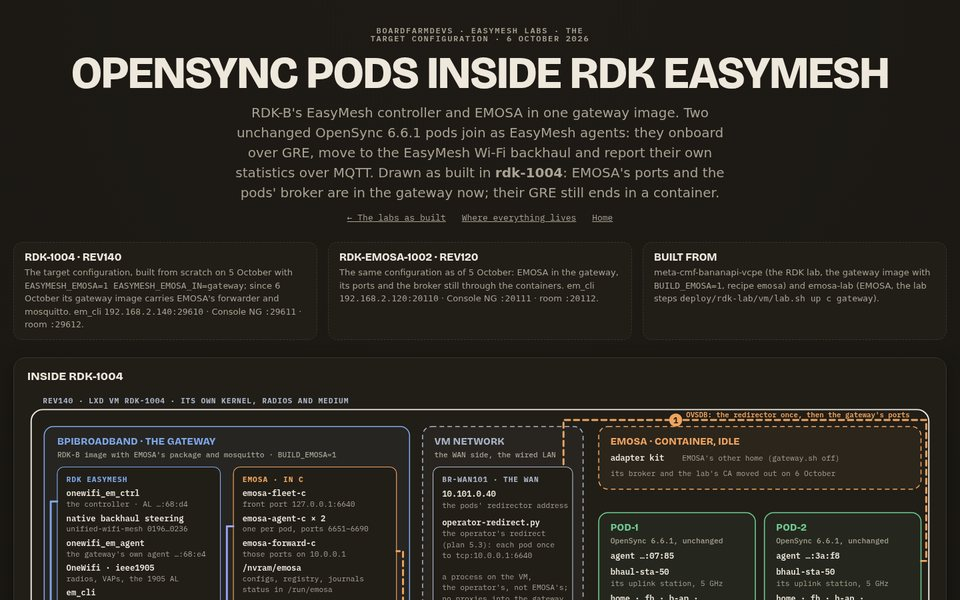
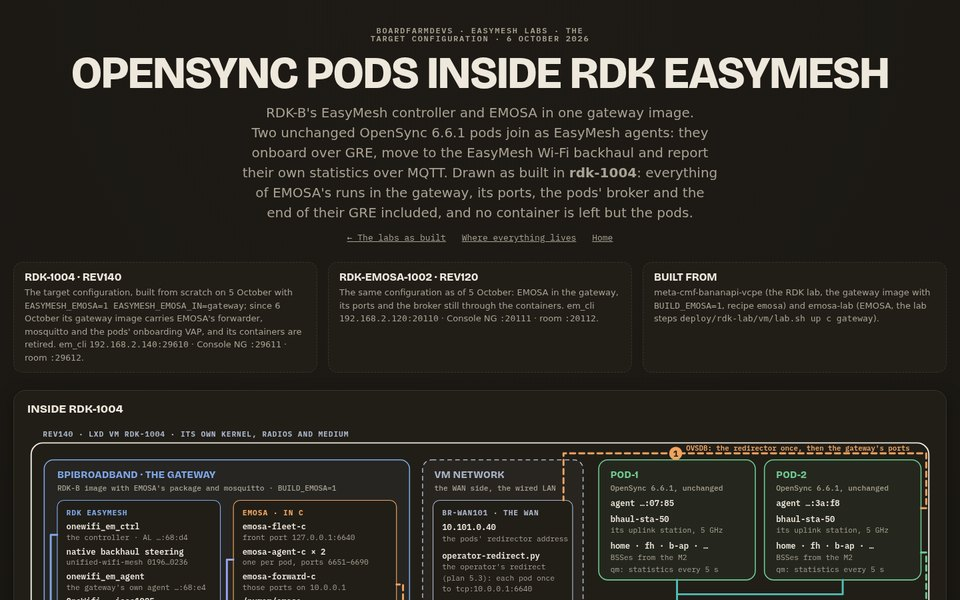
Poster rdk-emosa: no container but the pods, the pods' GRE ends in the gateway (6 October), 62 of 62 rooms; emosa-lab and meta-cmf pinned, rdk-1004's gateway image recorded
The gateway holds the pods' GTP: their onboarding SSID a VAP of its own
(wifi1.4, kept out of EasyMesh), emosa-gtp on its bridge, the tunnels in
brlan0; emosa and em-gtp retired. The footprint measured again through a room
catalog with everything in the gateway; em_ctrl's journal volume corrected.
manifest: emosa-lab 04189dc, meta-cmf 75462bb, rdk-1004's gateway image
X86EMLTRBPIBB_rdk-next_20261006083201 (meta-cmf c5abb1d).

Changed region(s): [[0.0312, 0.66, 0.9688, 1.0], [0.25, 0.18, 0.9688, 0.54], [0.0, 0.42, 0.3125, 0.63]]

diff --git a/site/posters/rdk-emosa.html b/site/posters/rdk-emosa.html
@@ -7,7 +7,7 @@
 <link rel="icon" href="../favicon.ico" sizes="48x48">
 <link rel="icon" href="../favicon.svg" type="image/svg+xml">
 <link rel="apple-touch-icon" href="../apple-touch-icon.png">
-<meta name="description" content="The target configuration as of 6 October 2026: RDK-B's EasyMesh controller and EMOSA in one gateway image, with EMOSA's ports and the pods' broker in the gateway; two unchanged OpenSync pods as EasyMesh agents, drawn whole with every path they use.">
+<meta name="description" content="The target configuration as of 6 October 2026: RDK-B's EasyMesh controller and EMOSA in one gateway image, with EMOSA's ports, the pods' broker and their GRE termination point in the gateway and no container but the pods; two unchanged OpenSync pods as EasyMesh agents, drawn whole with every path they use.">
 <link rel="preconnect" href="https://fonts.googleapis.com">
 <link rel="stylesheet" href="https://fonts.googleapis.com/css2?family=Bricolage+Grotesque:opsz,wght@12..96,600;12..96,800&family=IBM+Plex+Mono:wght@400;500;600;700&display=swap">
 <link rel="stylesheet" href="posters.css">
@@ -19,15 +19,17 @@
     <h1>OpenSync pods inside RDK EasyMesh</h1>
     <p>RDK-B's EasyMesh controller and EMOSA in one gateway image. Two unchanged OpenSync 6.6.1
     pods join as EasyMesh agents: they onboard over GRE, move to the EasyMesh Wi-Fi backhaul and
-    report their own statistics over MQTT. Drawn as built in <b>rdk-1004</b>: EMOSA's ports and
-    the pods' broker are in the gateway now; their GRE still ends in a container.</p>
+    report their own statistics over MQTT. Drawn as built in <b>rdk-1004</b>: everything of
+    EMOSA's runs in the gateway, its ports, the pods' broker and the end of their GRE included,
+    and no container is left but the pods.</p>
     <nav><a href="labs.html">← The labs as built</a> <a href="map.html">Where everything lives</a> <a href="../index.html">Home</a></nav>
   </header>
 
   <section class="stage-hosts" aria-label="Where it runs">
     <div class="host"><h3>rdk-1004 · rev140</h3><p>The target configuration, built from scratch on 5 October with
     <code>EASYMESH_EMOSA=1 EASYMESH_EMOSA_IN=gateway</code>; since 6 October its gateway image carries
-    EMOSA's forwarder and mosquitto. em_cli <code>192.168.2.140:29610</code> · Console NG
+    EMOSA's forwarder, mosquitto and the pods' onboarding VAP, and its containers are retired.
+    em_cli <code>192.168.2.140:29610</code> · Console NG
     <code>:29611</code> · room <code>:29612</code>.</p></div>
     <div class="host"><h3>rdk-emosa-1002 · rev120</h3><p>The same configuration as of 5 October:
     EMOSA in the gateway, its ports and the broker still through the containers. em_cli
@@ -41,8 +43,8 @@
     <h3>Inside rdk-1004</h3>
     <div class="diagram-scroll">
     <svg viewBox="0 0 1400 1048" role="img" aria-labelledby="dia-title dia-desc">
-      <title id="dia-title">rdk-1004 inside: the gateway with RDK EasyMesh, EMOSA and the pods' broker, the VM's WAN and wired LAN, the idle emosa container, two pods, em-gtp, the medium, extenders and the room service</title>
-      <desc id="dia-desc">Four numbered paths: 1, OVSDB from each pod to its redirector on the WAN side, the operator's redirect, then over the LAN to EMOSA's forwarder in the gateway and on to the fleet and the pod's agent; 2, IEEE 1905 between the agents in their own network namespace and RDK's controller over brlan0; 3, the data plane, GRE through em-gtp into the wired LAN, or the EasyMesh Wi-Fi backhaul to the gateway's mesh_backhaul BSS; 4, MQTT from the pods over the LAN to the broker in the gateway, which the agents read on its loopback.</desc>
+      <title id="dia-title">rdk-1004 inside: the gateway with RDK EasyMesh and EMOSA (fleet, agents, forwarder, the pods' broker and their GRE termination point), the VM's WAN and wired LAN, two pods, the medium, extenders and the room service; the emosa and em-gtp containers retired</title>
+      <desc id="dia-desc">Four numbered paths: 1, OVSDB from each pod to its redirector on the WAN side, the operator's redirect, then over the LAN to EMOSA's forwarder in the gateway and on to the fleet and the pod's agent; 2, IEEE 1905 between the agents in their own network namespace and RDK's controller over brlan0; 3, the data plane, GRE over the gateway's own onboarding SSID to its GTP and into brlan0, or the EasyMesh Wi-Fi backhaul to the gateway's mesh_backhaul BSS; 4, MQTT from the pods over the LAN to the broker in the gateway, which the agents read on its loopback.</desc>
 
       <g class="umbrella">
         <text class="st" x="30" y="20">rev140 · LXD VM rdk-1004 · its own kernel, radios and medium</text>
@@ -92,6 +94,11 @@
         <text class="b" x="336" y="390">em1 · 02:c2:b8:31:3a:f8</text>
         <text class="b" x="336" y="410">em2 · 02:72:f9:7f:07:85</text>
         <text class="t" x="336" y="432">macvlans on emlan, a veth end</text>
+        <rect class="sub" x="372" y="462" width="200" height="88" rx="10"/>
+        <text class="st" x="386" y="484">the pods' GTP</text>
+        <text class="b" x="386" y="504">emosa-gtp</text>
+        <text class="t" x="386" y="520">brpodbh 169.254.2.1/25</text>
+        <text class="t" x="386" y="536">wifi1.4, their SSID</text>
       </g>
       <g class="rdk">
         <rect class="sub" x="52" y="560" width="520" height="120" rx="10"/>
@@ -101,9 +108,9 @@
         <text class="t" x="78" y="633">fronthaul, mesh_backhaul</text>
         <text class="t" x="78" y="650">…:89:2b:59</text>
         <rect class="chip" x="258" y="596" width="140" height="66" rx="8"/>
-        <text class="ct" x="270" y="616">emlan-br</text>
-        <text class="t" x="270" y="633">EMOSA's veth</text>
-        <text class="t" x="270" y="650">port</text>
+        <text class="ct" x="270" y="616">emlan-br · gtp2_*</text>
+        <text class="t" x="270" y="633">EMOSA's veth,</text>
+        <text class="t" x="270" y="650">the pods' GRE</text>
         <rect class="chip" x="410" y="596" width="148" height="66" rx="8"/>
         <text class="ct" x="422" y="616">eth2</text>
         <text class="t" x="422" y="633">the wired LAN</text>
@@ -126,61 +133,42 @@
         <text class="t" x="642" y="290">a process on the VM,</text>
         <text class="t" x="642" y="307">the operator's, not EMOSA's;</text>
         <text class="t" x="642" y="324">no proxies into the gateway</text>
-        <rect class="sub" x="628" y="370" width="214" height="210" rx="10"/>
+        <rect class="sub" x="628" y="370" width="214" height="104" rx="10"/>
         <text class="st" x="642" y="393">br-wired</text>
         <text class="t" x="642" y="412">the wired LAN, its ports:</text>
         <text class="b" x="642" y="438">gateway eth2</text>
         <text class="b" x="642" y="462">bpiap-004 eth1</text>
-        <text class="b" x="642" y="486">em-gtp eth1</text>
-        <text class="b" x="642" y="510">emosa emlan</text>
-        <text class="t" x="642" y="534">the trunk when EMOSA</text>
-        <text class="t" x="642" y="551">runs in its container</text>
       </g>
 
-      <!-- the idle emosa container, the pods, em-gtp -->
-      <g class="emosa">
-        <rect class="zone dashed" x="882" y="56" width="494" height="96" rx="14"/>
-        <text class="zt" x="900" y="84">emosa · container, idle</text>
-        <text class="b" x="900" y="108">adapter kit</text>
-        <text class="t" x="1010" y="108">EMOSA's other home (gateway.sh off)</text>
-        <text class="t" x="900" y="132">its broker and the lab's CA moved out on 6 October</text>
-      </g>
+      <!-- the pods, the retired containers -->
       <g class="osl">
-        <rect class="zone" x="882" y="188" width="240" height="184" rx="14"/>
-        <text class="zt" x="900" y="216">pod-1</text>
-        <text class="zs" x="900" y="235">OpenSync 6.6.1, unchanged</text>
-        <text class="b" x="900" y="259">agent …:07:85</text>
-        <text class="b" x="900" y="283">bhaul-sta-50</text>
-        <text class="t" x="900" y="300">its uplink station, 5 GHz</text>
-        <text class="b" x="900" y="324">home · fh · b-ap · …</text>
-        <text class="t" x="900" y="341">BSSes from the M2</text>
-        <text class="t" x="900" y="360">qm: statistics every 5 s</text>
-        <rect class="zone" x="1136" y="188" width="240" height="184" rx="14"/>
-        <text class="zt" x="1154" y="216">pod-2</text>
-        <text class="zs" x="1154" y="235">OpenSync 6.6.1, unchanged</text>
-        <text class="b" x="1154" y="259">agent …:3a:f8</text>
-        <text class="b" x="1154" y="283">bhaul-sta-50</text>
-        <text class="t" x="1154" y="300">its uplink station, 5 GHz</text>
-        <text class="b" x="1154" y="324">home · fh · b-ap · …</text>
-        <text class="t" x="1154" y="341">BSSes from the M2</text>
-        <text class="t" x="1154" y="360">qm: statistics every 5 s</text>
+        <rect class="zone" x="882" y="56" width="240" height="184" rx="14"/>
+        <text class="zt" x="900" y="84">pod-1</text>
+        <text class="zs" x="900" y="103">OpenSync 6.6.1, unchanged</text>
+        <text class="b" x="900" y="127">agent …:07:85</text>
+        <text class="b" x="900" y="151">bhaul-sta-50</text>
+        <text class="t" x="900" y="168">its uplink station, 5 GHz</text>
+        <text class="b" x="900" y="192">home · fh · b-ap · …</text>
+        <text class="t" x="900" y="209">BSSes from the M2</text>
+        <text class="t" x="900" y="228">qm: statistics every 5 s</text>
+        <rect class="zone" x="1136" y="56" width="240" height="184" rx="14"/>
+        <text class="zt" x="1154" y="84">pod-2</text>
+        <text class="zs" x="1154" y="103">OpenSync 6.6.1, unchanged</text>
+        <text class="b" x="1154" y="127">agent …:3a:f8</text>
+        <text class="b" x="1154" y="151">bhaul-sta-50</text>
+        <text class="t" x="1154" y="168">its uplink station, 5 GHz</text>
+        <text class="b" x="1154" y="192">home · fh · b-ap · …</text>
+        <text class="t" x="1154" y="209">BSSes from the M2</text>
+        <text class="t" x="1154" y="228">qm: statistics every 5 s</text>
       </g>
-      <g class="medium">
-        <rect class="zone" x="882" y="408" width="494" height="200" rx="14"/>
-        <text class="zt" x="900" y="436">em-gtp · GRE termination</text>
-        <rect class="chip" x="896" y="448" width="228" height="56" rx="8"/>
-        <text class="ct" x="908" y="470">wlan0 in podbh</text>
-        <text class="t" x="908" y="488">'opensync-lab-bhaul', ch 44</text>
-        <rect class="chip" x="1136" y="448" width="226" height="56" rx="8"/>
-        <text class="ct" x="1148" y="470">169.254.2.1/25</text>
-        <text class="t" x="1148" y="488">DHCP, MTU 1600, ping</text>
-        <rect class="chip" x="896" y="514" width="228" height="56" rx="8"/>
-        <text class="ct" x="908" y="536">br-gtp</text>
-        <text class="t" x="908" y="554">the gretaps + eth1</text>
-        <rect class="chip" x="1136" y="514" width="226" height="56" rx="8"/>
-        <text class="ct" x="1148" y="536">gtp2_* gretaps</text>
-        <text class="t" x="1148" y="554">one per pod lease</text>
-        <text class="t" x="900" y="594">next (step 3): in the gateway, a OneWifi VAP and emosa-gtp</text>
+      <g class="emosa">
+        <rect class="zone dashed" x="882" y="560" width="494" height="130" rx="14"/>
+        <text class="zt" x="900" y="588">retired · 6 October</text>
+        <text class="b" x="900" y="614">emosa · em-gtp</text>
+        <text class="t" x="1030" y="614">the adapter's and the GTP's containers</text>
+        <text class="t" x="900" y="640">EMOSA, its broker and its GTP run in the gateway,</text>
+        <text class="t" x="900" y="657">from its image: no container but the pods.</text>
+        <text class="t" x="900" y="674">lab.sh retire; a fresh lab never makes them.</text>
       </g>
 
       <!-- the second row -->
@@ -193,8 +181,8 @@
         <text class="b" x="52" y="860">wmediumd</text>
         <text class="t" x="52" y="877">delivers every frame by the room's RF</text>
         <text class="b" x="52" y="902">the pods' uplinks</text>
-        <text class="t" x="52" y="919">fixed links: to em-gtp SNR 45,</text>
-        <text class="t" x="52" y="936">to the gateway's 5 GHz SNR 50</text>
+        <text class="t" x="52" y="919">one fixed link, SNR 50: the gateway's</text>
+        <text class="t" x="52" y="936">5 GHz radio carries both their SSIDs</text>
         <text class="b" x="52" y="961">Console NG</text>
         <text class="t" x="52" y="978">every radio and path, live · :29611</text>
       </g>
@@ -227,7 +215,7 @@
 
       <!-- 1: OVSDB: the redirector on the WAN side, then the gateway's forwarder over the LAN -->
       <g class="flow1">
-        <path class="flow dash" d="M1376,262 H1384 V46 H828 V118"/>
+        <path class="flow dash" d="M1376,130 H1384 V46 H828 V118"/>
         <path class="flow dash" d="M572,610 H582 V247 H572"/>
         <g class="badge"><circle cx="1000" cy="46" r="10"/><text x="1000" y="46">1</text></g>
         <text class="lane" x="1016" y="42">OVSDB: the redirector once, then the gateway's ports</text>
@@ -239,16 +227,17 @@
         <path class="flow" d="M360,450 V596"/>
         <g class="badge"><circle cx="42" cy="520" r="10"/><text x="42" y="520">2</text></g>
       </g>
-      <!-- 3: the data plane: GRE through em-gtp, or the EasyMesh backhaul -->
+      <!-- 3: the data plane: GRE over the gateway's own SSID to its GTP, or the EasyMesh backhaul -->
       <g class="flow3">
-        <path class="flow" d="M1002,372 V408"/>
-        <path class="flow" d="M1256,372 V408"/>
-        <path class="flow" d="M896,542 H842"/>
-        <path class="flow" d="M628,438 H600 V629 H558"/>
-        <g class="badge"><circle cx="1129" cy="390" r="11"/><text x="1129" y="390">3</text></g>
+        <path class="flow" d="M1002,240 V528 H572"/>
+        <path class="flow" d="M1256,240 V262 H1002"/>
+        <path class="flow" d="M385,550 V596"/>
+        <g class="badge"><circle cx="735" cy="528" r="11"/><text x="735" y="528">3</text></g>
+        <text class="lane" x="1016" y="440">GRE: the gateway's own SSID,</text>
+        <text class="lane" x="1016" y="456">its GTP, tunnels into brlan0</text>
       </g>
       <g class="flow3b">
-        <path class="flow dash" d="M1376,330 H1384 V722 H156 V680"/>
+        <path class="flow dash" d="M1376,198 H1384 V722 H156 V680"/>
         <g class="badge"><circle cx="760" cy="722" r="11"/><text x="760" y="722">3</text></g>
         <text class="lane" x="778" y="718">or: the EasyMesh backhaul, 4-address, to …:89:2b:59</text>
       </g>
@@ -263,7 +252,7 @@
     <p class="legend">
       <span class="flow1"><i class="dash"></i>1 · OVSDB: the operator's redirect once, then the gateway's forwarder to each pod's agent</span>
       <span class="flow2"><i></i>2 · IEEE 1905: EasyMesh with RDK's controller</span>
-      <span class="flow3"><i></i>3 · data: GRE through em-gtp</span>
+      <span class="flow3"><i></i>3 · data: GRE to the gateway's GTP</span>
       <span class="flow3b"><i class="dash"></i>3 · data: the EasyMesh Wi-Fi backhaul</span>
       <span class="flow4"><i></i>4 · MQTT: the pods' statistics to the gateway's broker</span>
     </p>
@@ -274,8 +263,8 @@
       <h3><span class="num">1</span>A pod joins</h3>
       <p>From power-on to an EasyMesh agent with the controller's networks, about two minutes.</p>
       <ol class="steps">
-        <li>The pod boots onto its bootstrap uplink: its station joins em-gtp's <code>opensync-lab-bhaul</code> (5 GHz, channel 44).</li>
-        <li>em-gtp leases it a <code>169.254.2.x</code> address; OpenSync builds a gretap to <code>.1</code>, which em-gtp bridges with <code>eth1</code> into the wired LAN, a port of the gateway's <code>brlan0</code>.</li>
+        <li>The pod boots onto its bootstrap uplink: its station joins the gateway's own <code>opensync-lab-bhaul</code>, <code>wifi1.4</code> on the 5 GHz radio, a VAP kept out of EasyMesh.</li>
+        <li>The gateway's GTP, <code>emosa-gtp</code> on bridge <code>brpodbh</code>, leases it a <code>169.254.2.x</code> address; OpenSync builds a gretap to <code>.1</code>, which the GTP makes a port of <code>brlan0</code>.</li>
         <li>OpenSync dials its redirector, <code>10.101.0.40:6640</code>, over the LAN and the gateway's WAN. The operator's redirect answers there, once (a stand-in on the VM, plan 5.3): <code>manager_addr</code> is the gateway's front port, <code>tcp:10.0.0.1:6640</code>.</li>
         <li>EMOSA's forwarder in the gateway carries the pod to the fleet on loopback. The fleet admits it, records it on <code>/nvram</code>, starts its agent, writes <code>manager_addr</code> <code>tcp:10.0.0.1:6651…6690</code> and hangs up; the pod reconnects, through the forwarder, to its agent.</li>
         <li>The agent opens its 1905 socket on its macvlan in namespace <code>emosa</code> and onboards: AP-Autoconfiguration Search and Response, M1, M2.</li>
@@ -298,7 +287,7 @@
       <h3><span class="num">3</span>The pods' data</h3>
       <p>Two ways into the home LAN. Every OpenSync restart lands a pod on the first.</p>
       <ol class="steps">
-        <li><b>GRE through em-gtp</b>, the baseline: a 3-address station on <code>opensync-lab-bhaul</code>, one gretap per pod lease, bridged into the wired LAN and so into <code>brlan0</code>. em-gtp keeps the underlay out of the LAN.</li>
+        <li><b>GRE to the gateway's GTP</b>, the baseline: a 3-address station on <code>opensync-lab-bhaul</code>, one gretap per pod lease, a port of <code>brlan0</code>. The underlay stays on its own bridge, <code>brpodbh</code>, which the gateway's firewall accepts.</li>
         <li><b>The EasyMesh Wi-Fi backhaul</b>, option 1: a 4-address station on a <code>mesh_backhaul</code> BSS, bridged into the pod's <code>br-home</code>, no GRE. The controller can move it between the gateway's and the extenders' backhaul BSSes.</li>
         <li>A switch not applied in 90 s holds the pod on GRE until it is admitted anew.</li>
       </ol>
@@ -327,7 +316,7 @@
             <tr><td><code>10.0.0.1:6651–6690</code></td><td>one port per pod's agent, through it too</td><td>the gateway's loopback</td></tr>
             <tr><td><code>10.0.0.1:8883</code></td><td>MQTT from the pods, mutual TLS</td><td>mosquitto in the gateway</td></tr>
             <tr><td><code>127.0.0.1:1883</code> in the gateway</td><td>the agents' MQTT</td><td>the same mosquitto, plain</td></tr>
-            <tr><td><code>169.254.2.1/25</code></td><td>em-gtp's underlay: DHCP, the GRE remote</td><td><code>podbh</code></td></tr>
+            <tr><td><code>169.254.2.1/25</code></td><td>the gateway's GTP: DHCP, the GRE remote</td><td><code>brpodbh</code>, with <code>wifi1.4</code></td></tr>
             <tr><td><code>192.168.2.140:29610/1/2</code></td><td>em_cli · Console NG · the room</td><td>rdk-1004</td></tr>
             <tr><td><code>192.168.2.120:20110/1/2</code></td><td>the same</td><td>rdk-emosa-1002</td></tr>
           </tbody>
@@ -342,7 +331,7 @@
             <tr><td>pod-1's agent, on <code>em2</code></td><td><code>02:72:f9:7f:07:85</code></td></tr>
             <tr><td>pod-2's agent, on <code>em1</code></td><td><code>02:c2:b8:31:3a:f8</code></td></tr>
             <tr><td>the gateway's <code>mesh_backhaul</code> BSS</td><td><code>02:00:00:89:2b:59</code></td></tr>
-            <tr><td>em-gtp's onboarding AP</td><td><code>02:00:00:00:6a:00</code></td></tr>
+            <tr><td>the pods' onboarding AP, the gateway's <code>wifi1.4</code></td><td><code>02:00:00:33:2b:87</code></td></tr>
           </tbody>
         </table>
       </div>
@@ -351,13 +340,16 @@
     <div class="panel">
       <h3>In the gateway's 1 GiB</h3>
       <div class="meters">
-        <div class="meter rdk"><div class="row"><b>the gateway container</b><span>471 MiB median · 489 peak</span></div><div class="bar"><i style="width:46%"></i></div></div>
-        <div class="meter rdk"><div class="row"><b>onewifi_em_ctrl</b><span>33 MiB PSS · 33 % of a core</span></div><div class="bar"><i style="width:3.2%"></i></div></div>
-        <div class="meter rdk"><div class="row"><b>onewifi_em_agent</b><span>30 MiB PSS · 1 % of a core</span></div><div class="bar"><i style="width:2.9%"></i></div></div>
-        <div class="meter emosa"><div class="row"><b>emosa-agent-c, each</b><span>4.4 MiB PSS · 0.8 % of a core</span></div><div class="bar"><i style="width:0.43%"></i></div></div>
+        <div class="meter rdk"><div class="row"><b>the gateway container</b><span>505 MiB median · 515 peak</span></div><div class="bar"><i style="width:49%"></i></div></div>
+        <div class="meter rdk"><div class="row"><b>onewifi_em_ctrl</b><span>38 MiB PSS · 41 % of a core</span></div><div class="bar"><i style="width:3.7%"></i></div></div>
+        <div class="meter rdk"><div class="row"><b>onewifi_em_agent</b><span>32 MiB PSS · 1 % of a core</span></div><div class="bar"><i style="width:3.1%"></i></div></div>
+        <div class="meter emosa"><div class="row"><b>emosa-agent-c, each</b><span>5.0 MiB PSS · 0.6 % of a core</span></div><div class="bar"><i style="width:0.49%"></i></div></div>
+        <div class="meter optimizer"><div class="row"><b>mosquitto, the pods' broker</b><span>1.4 MiB PSS</span></div><div class="bar"><i style="width:0.14%"></i></div></div>
+        <div class="meter emosa"><div class="row"><b>emosa-forward-c</b><span>1.0 MiB PSS · under 0.01 % of a core</span></div><div class="bar"><i style="width:0.1%"></i></div></div>
         <div class="meter emosa"><div class="row"><b>emosa-fleet-c</b><span>0.7 MiB PSS · 0.02 % of a core</span></div><div class="bar"><i style="width:0.07%"></i></div></div>
+        <div class="meter medium"><div class="row"><b>the GTP, emosa-gtp's dnsmasq</b><span>0.4 MiB PSS</span></div><div class="bar"><i style="width:0.04%"></i></div></div>
       </div>
-      <p style="font-size:12.5px;color:var(--muted);margin:12px 0 0">Sampled for 30 minutes on rdk-1004 with both pods operating, on 5 October, before the forwarder and the broker moved in; bars against the container's 1 GiB. EMOSA logs through RDK's logger to <code>/rdklogs/logs</code>; its configuration and state stay on <code>/nvram</code> across image upgrades.</p>
+      <p style="font-size:12.5px;color:var(--muted);margin:12px 0 0">Sampled every 30 s for 30 minutes on rdk-1004 through a room catalog on 6 October, everything of EMOSA's in the gateway; bars against the container's 1 GiB. EMOSA logs through RDK's logger to <code>/rdklogs/logs</code>; its configuration and state stay on <code>/nvram</code> across image upgrades.</p>
     </div>
   </section>
 
@@ -365,12 +357,14 @@
     <div class="panel">
       <h3>This stage · 5 and 6 October 2026</h3>
       <div class="results">
-        <div class="result osl"><b>27 / 27</b><span>rooms of the catalog with the pods, three times</span></div>
-        <div class="result osl"><b>4 / 4</b><span>geometry backhaul rooms, after hours of rooms</span></div>
+        <div class="result osl"><b>54 / 54</b><span>catalog rooms in two rounds with no container but the pods (6 October)</span></div>
+        <div class="result osl"><b>8 / 8</b><span>geometry backhaul rooms in the same two rounds</span></div>
+        <div class="result medium"><b>22 s</b><span>a pod's restart to its agent, through the gateway's own SSID and GTP</span></div>
         <div class="result rdk"><b>8</b><span>agents in RDK's controller, the pods' two included</span></div>
-        <div class="result osl"><b>87 / 87</b><span>controller rounds with no pod left uncertain, pod moves verified</span></div>
       </div>
       <ul class="timeline">
+        <li class="umbrella">No container but the pods (6 October)<small>emosa and em-gtp deleted on rdk-1004: everything of EMOSA's runs in the gateway from its image; a fresh lab never makes them</small></li>
+        <li class="medium">The pods' GRE ends in the gateway (6 October)<small>their onboarding SSID a VAP of the gateway's own (wifi1.4), kept out of EasyMesh (libwebconfig 0014: as a reported BSS its SSID failed every Topology Response); emosa-gtp on its bridge; RDK's dnsmasq binds per interface; a pod's bootstrap through it in 22 s</small></li>
         <li class="emosa">EMOSA's ports on the gateway's LAN (6 October)<small>its own forwarder, emosa-forward-c, in place of the lab's proxies; the pods' redirector answered by an operator's redirect on the WAN side</small></li>
         <li class="optimizer">The pods' broker in the gateway (6 October)<small>the image's mosquitto: mutual TLS on 10.0.0.1 for the pods, loopback for the agents; the lab's CA moved to the VM</small></li>
         <li class="emosa">EMOSA's agents in a network namespace of their own<small>RDK's controller had taken a pod's agent, whose AL MAC sat on a gateway interface, for its co-located agent and rooted its native backhaul there (emosa-lab finding 17)</small></li>
@@ -383,9 +377,8 @@
     <div class="panel">
       <h3>Open</h3>
       <ul class="timeline">
-        <li class="open">GRE in the gateway, under way (step 3)<small>shown on rdk-emosa-1002: the pods' SSID as a OneWifi VAP (lnf_psk_5g in the gateway's unused mesh-station slot, its own bridge brpodbh, channel 36). Next: emosa-gtp configured on it, the firewall opened for the underlay, then the em-gtp and emosa containers removed</small></li>
         <li class="open">No native backhaul steering below the wired extender<small>the controller's model has no parent for a wired agent, so pods on its backhaul BSS are not measured</small></li>
-        <li class="open">em_ctrl's log is partial<small>the image caps it at 1000 journal lines per 30 s and it writes about 1600; the journal is volatile, 16 MB, about 15 minutes: long runs keep their own copy</small></li>
+        <li class="open">em_ctrl's log is partial<small>the image caps it at 1000 journal lines per 30 s and through a room catalog it writes 2,500 to 8,500, mostly traces of per-message work; the journal is volatile, 16 MB, about 15 minutes: long runs keep their own copy</small></li>
       </ul>
     </div>
   </section>
